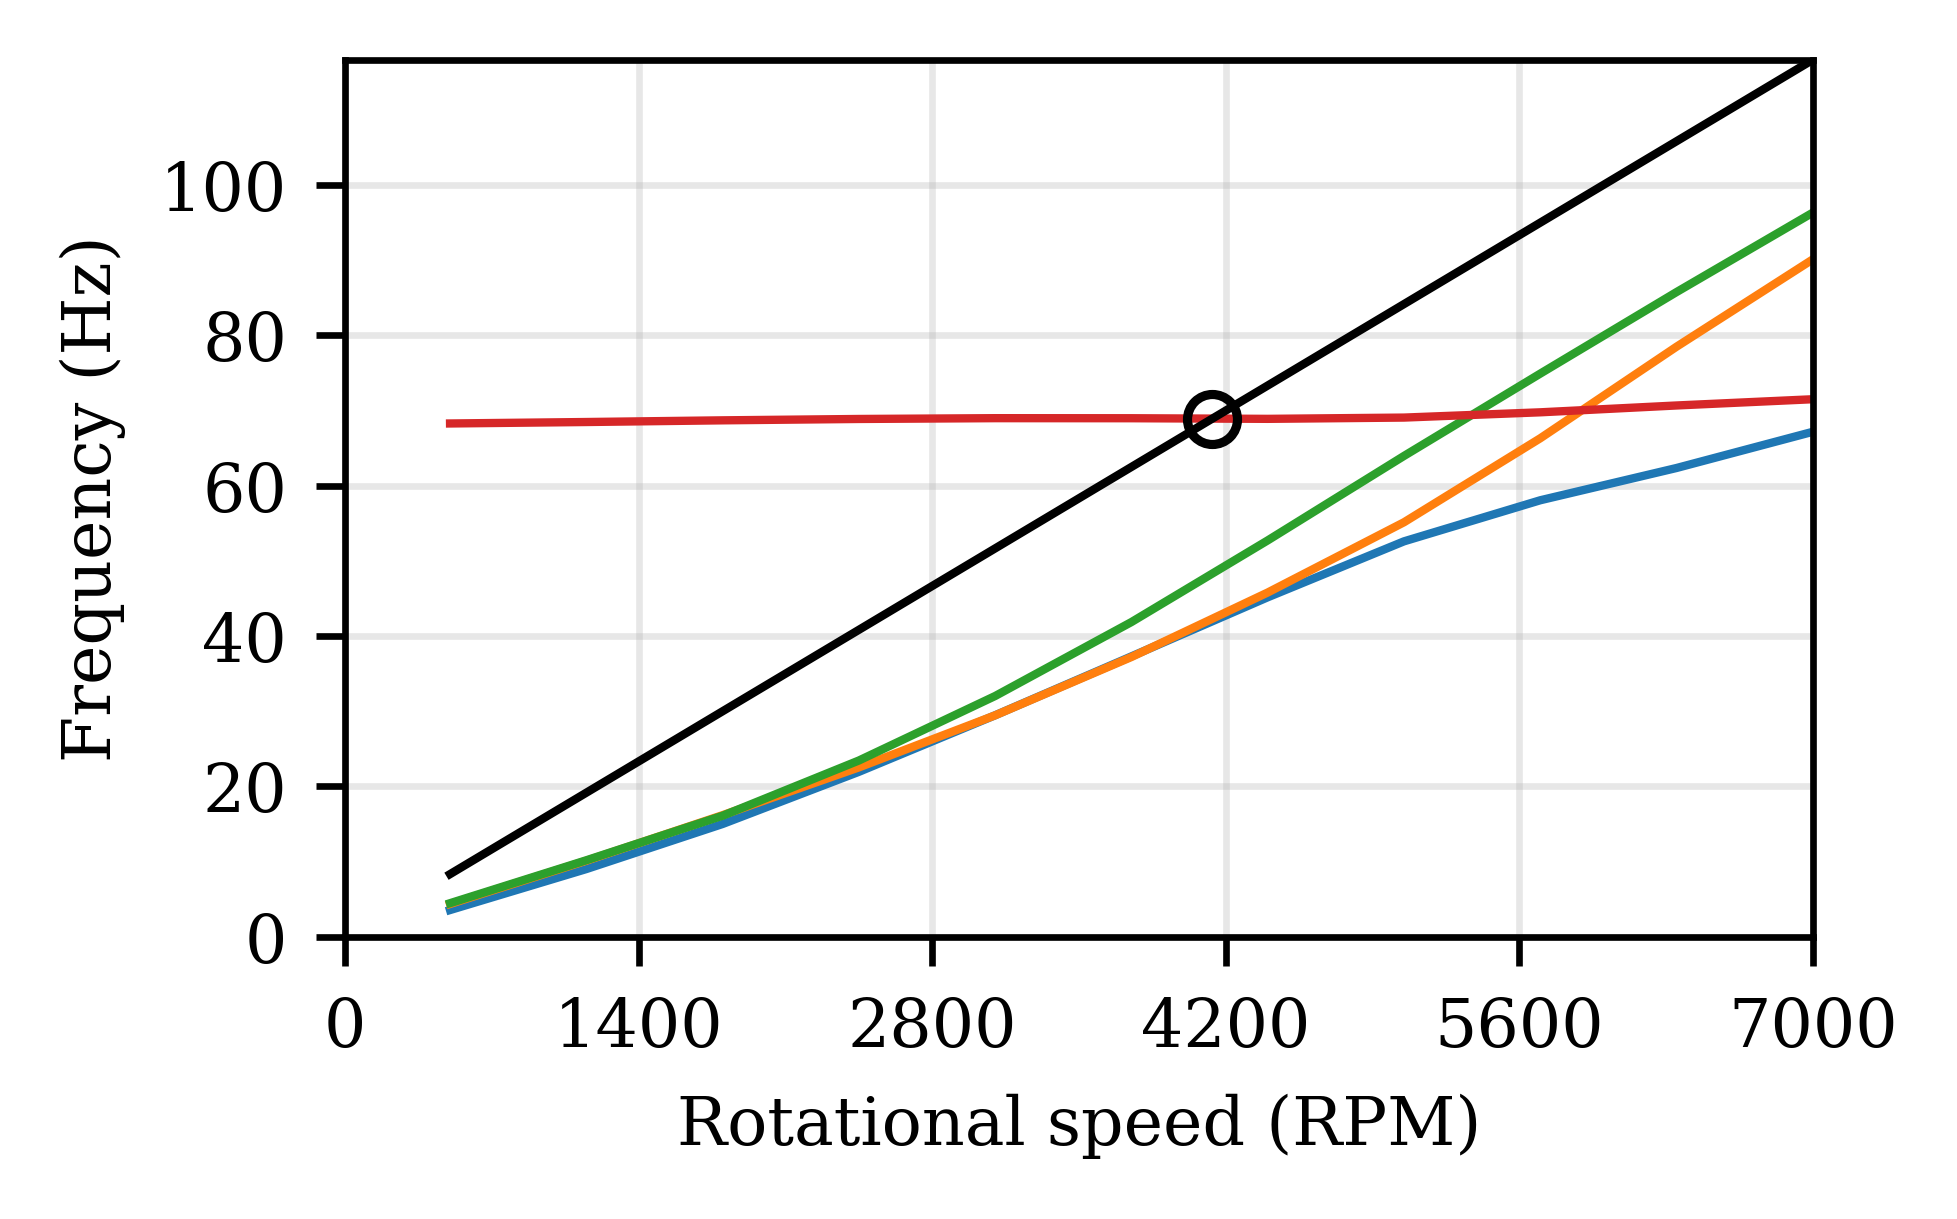
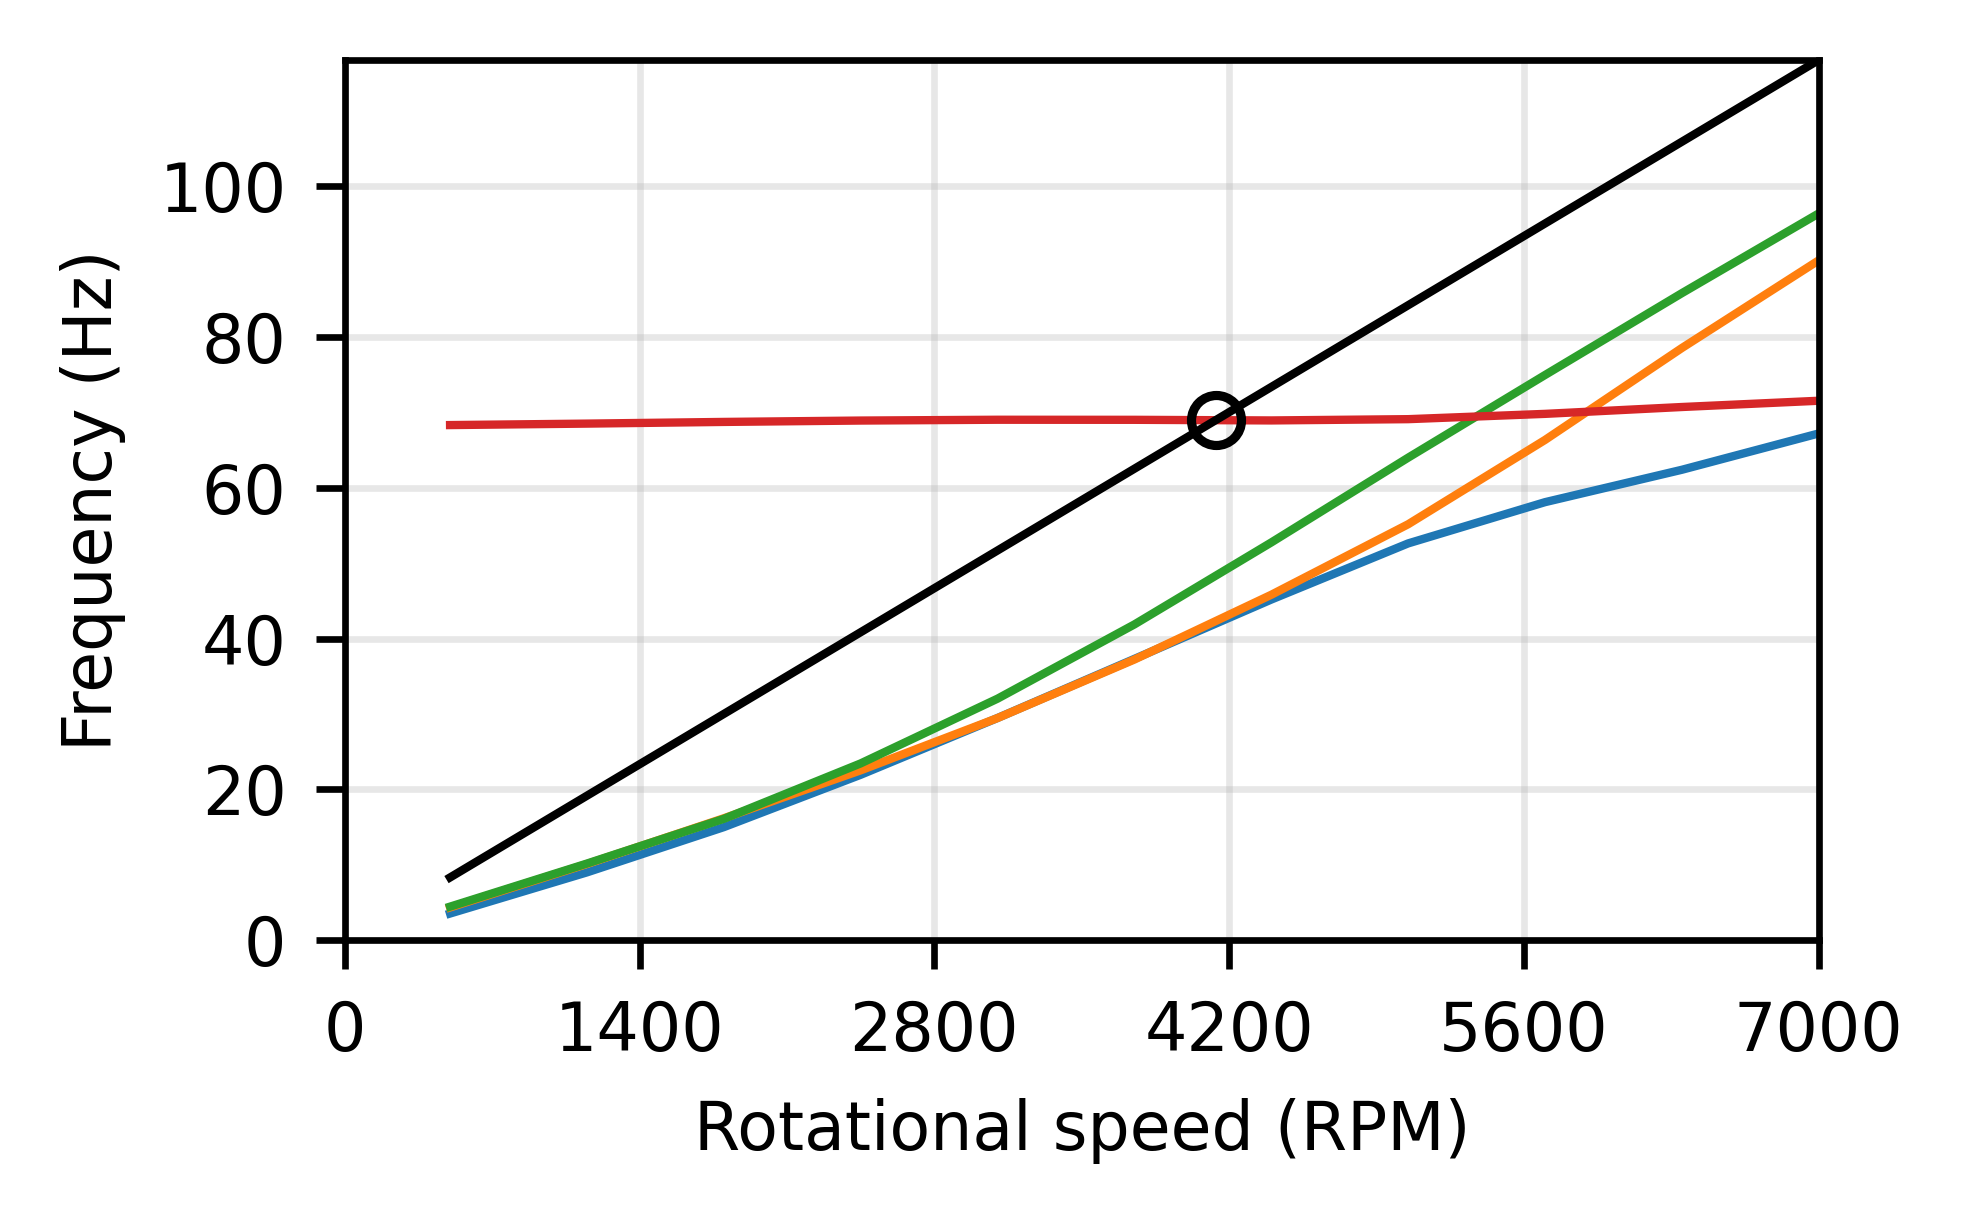
그림을 다시 그리자

diff --git a/plot_paper_figure.py b/plot_paper_figure.py
@@ -641,6 +641,11 @@ def pareto_plot_PCP(F, names, idx: Optional[np.ndarray] = None, out_path="pareto
     plot.set_axis_style(color="grey", alpha=0.5)
     plot.add(F, color="grey", alpha=0.3)
 
+    import matplotlib as mlp
+    from cycler import cycler
+    default_cycle = mlp.rcParams.get('axes.prop_cycle')    
+    colors = default_cycle.by_key().get('color')
+    
     # Normalize idx into indices, allow None/empty
     indices = np.array([], dtype=int)
     if idx is not None:
@@ -652,11 +657,10 @@ def pareto_plot_PCP(F, names, idx: Optional[np.ndarray] = None, out_path="pareto
                 indices = np.flatnonzero(idx_arr)
             elif idx_arr.size > 0:
                 indices = idx_arr.astype(int).ravel()
-
     for i, idc in enumerate(indices):
+        plot.add(np.atleast_2d(F[idc]), linewidth=3, linestyle='-',
+                 color=colors[i % len(colors)])
 
-        plot.add(np.atleast_2d(F[idc]), linewidth=3, linestyle='-')
-    # plot.save(out_path, dpi=600, bbox_inches="tight")
     plot.save(out_path, dpi=600, bbox_inches="tight")
 
     plot.show()
@@ -781,17 +785,21 @@ F_pareto_corrected = F_pareto * pareto_signs
 sel0 = np.argsort(F_pareto[:, 0])
 sel1 = np.argsort(F_pareto[:, 1])
 
-sel = [sel0[0], sel1[0]]
+# sel = [sel0[0], sel1[0]]
 
-pareto_plot_PCP(F=F_pareto_corrected, names=obj_names, idx=sel0[:5], figsize=figsize_SC_two_third_s)
-plot_2factor(F_pop=F_pop,F_par=F_pareto_corrected,ip=[0, 1],idx=sel,figsize=figsize_SC_one_third_s, xlim=[20,60], ylim=[1000,4000])
-plot_2factor(F_pop=F_pop,F_par=F_pareto_corrected,ip=[0, 1],idx=sel,figsize=figsize_SC, xlim=[20,40], ylim=[1000,2000])
+sel = sel0[:5]
+pareto_plot_PCP(F=F_pareto_corrected, names=obj_names, idx=sel, figsize=figsize_SC_two_third_s)
+plot_2factor(F_pop=F_pop,F_par=F_pareto_corrected,ip=[0, 1],idx=sel,figsize=figsize_SC_one_third_s, xlim=[22.5,30], ylim=[1000,4000])
 
-pareto_plot_PCP(F=F_pareto_corrected, names=obj_names, idx=sel0[:4], figsize=figsize_SC)
-plot_2factor(F_pop=F_pop,F_par=F_pareto_corrected,ip=[0, 1],idx=sel0[:4],figsize=figsize_SC, xlim=[20,40], ylim=[1000,4000])
+for i, case in enumerate(sel):
+    X = X_pareto[case,:].reshape(1,-1)
+    eig, amp, loss_brg, loss_brg_full, leak, F_init, peak_af_list, peak_centers_list, logdec, amp_ratio_brg, amp_ratio_seal = analyze_design(X, ctx, w_vec)
+    
+    plot_campbell(eig, w_vec, out_path=f'opt_cb_{i}.png')
+    plot_logdec(logdec, w_vec, out_path=f'opt_logdec_{i}.png')
+    plot_unbalance_response(amp, w_vec, ctx, out_path=f'opt_unb_{i}.png', nodes='key', figsize=figsize_SC_ss, show_lgd=True)
 
-pareto_plot_PCP(F=F_pareto_corrected, names=obj_names, idx=sel0[:4], figsize=figsize_SC_two_third_s)
-plot_2factor(F_pop=F_pop,F_par=F_pareto_corrected,ip=[0, 1],idx=sel0[:4],figsize=figsize_SC_one_third_s, xlim=[20,40], ylim=[1000,4000])
+
 #%%
 
 # choose by minimum total leakage as an example
@@ -799,4 +807,4 @@ idx = int(np.argmin(F_pareto[:, 0])) if len(F_pareto) else 0
 X_opt = X_pareto[idx:idx+1, :]
 
 plot_bearing_id_hist(X_pop, X_pareto, n_brg, figsize=figsize_SC_ss)
-# %%
+
